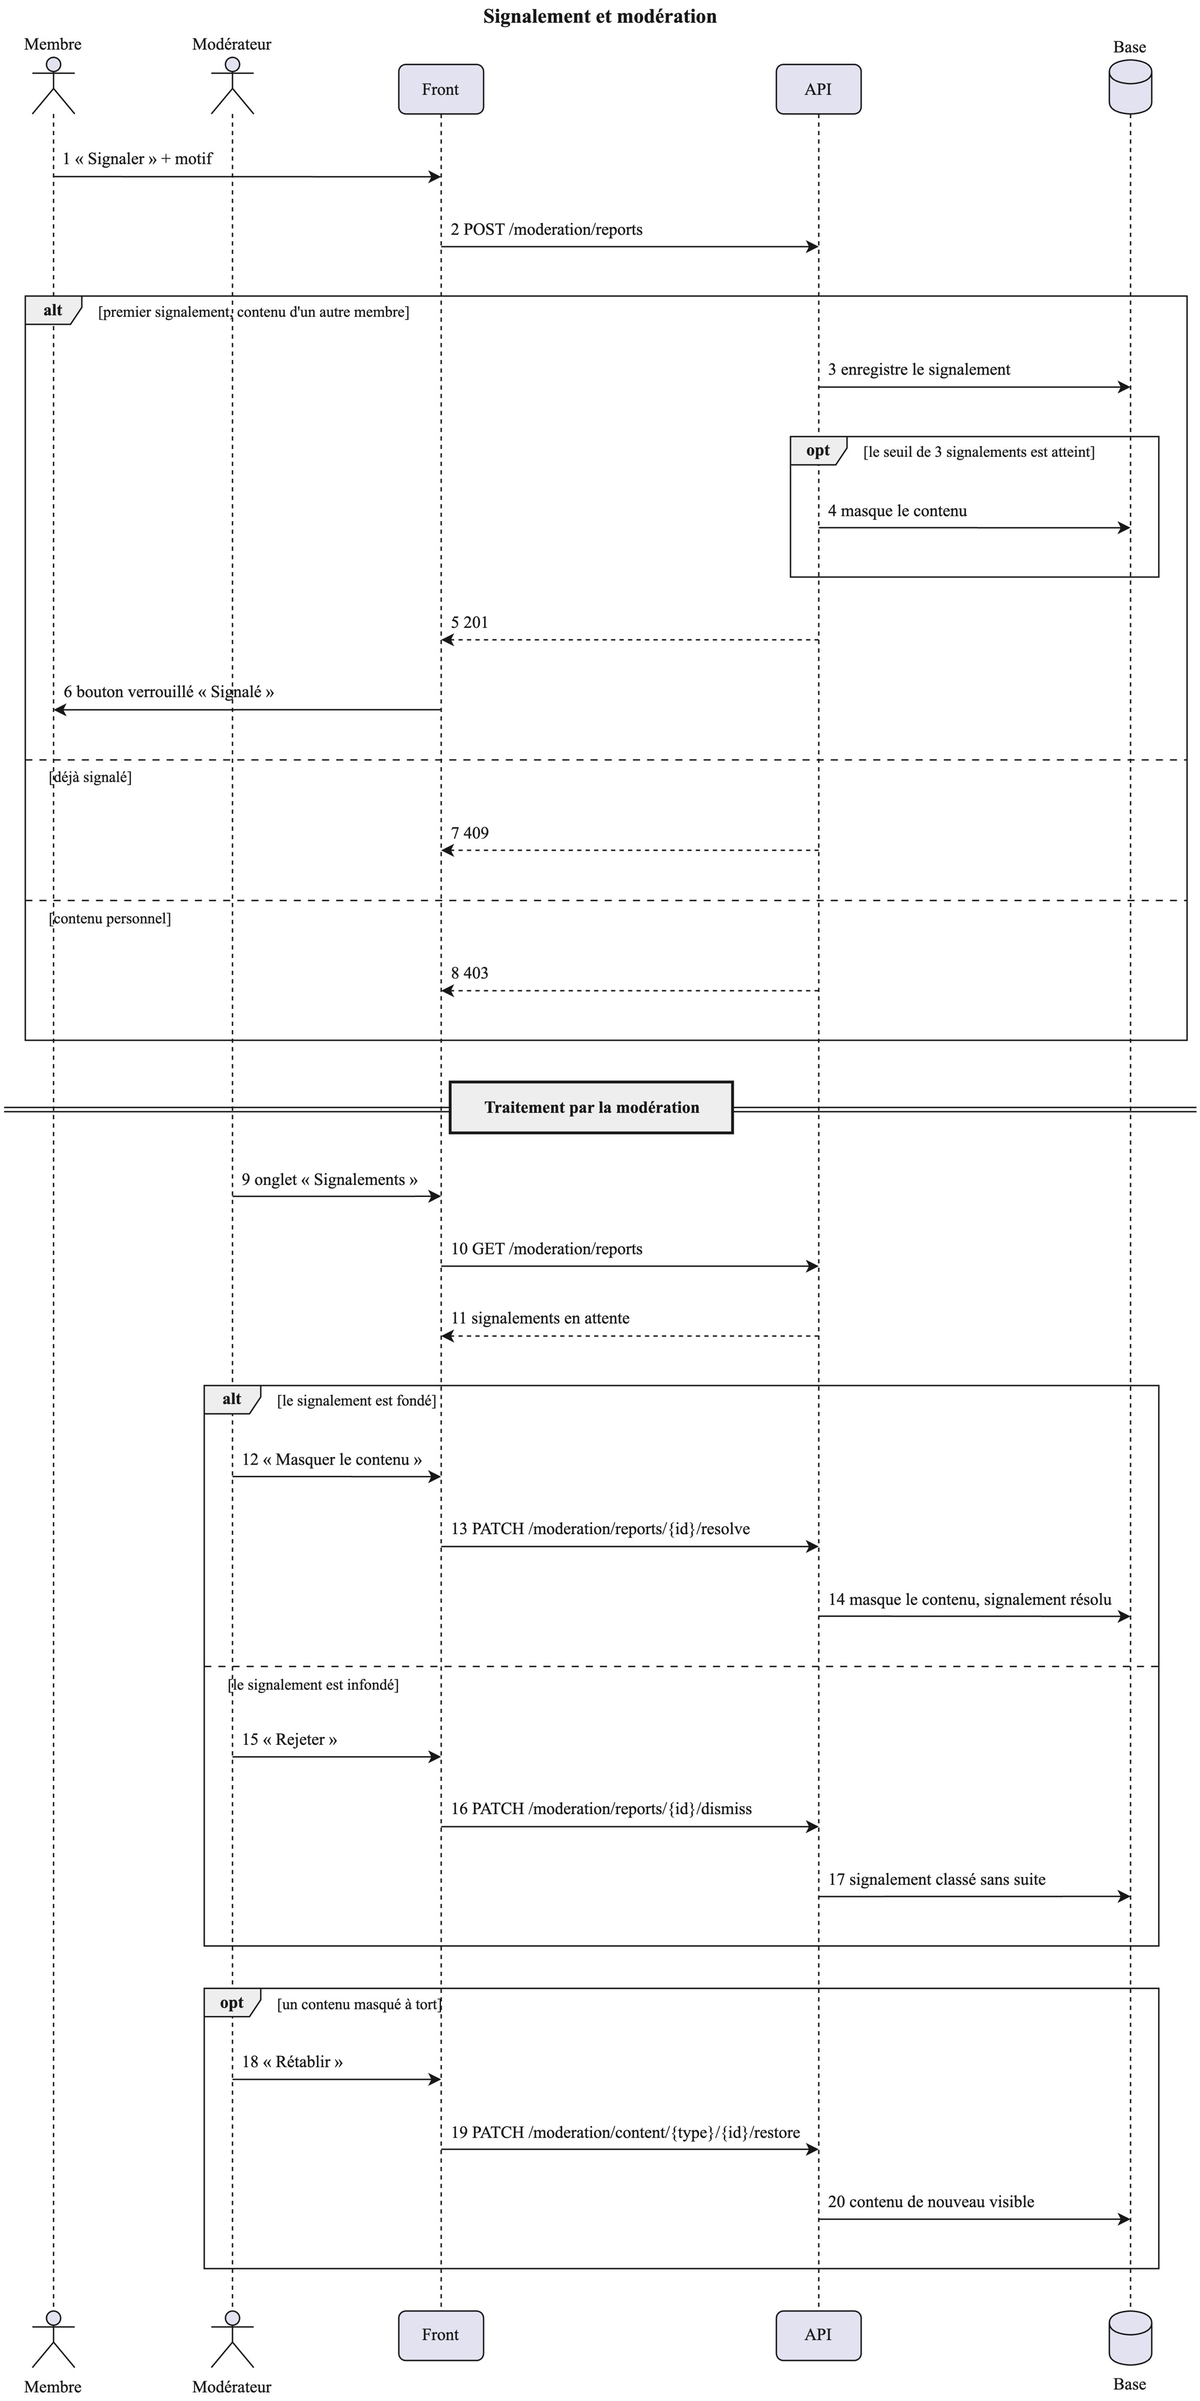
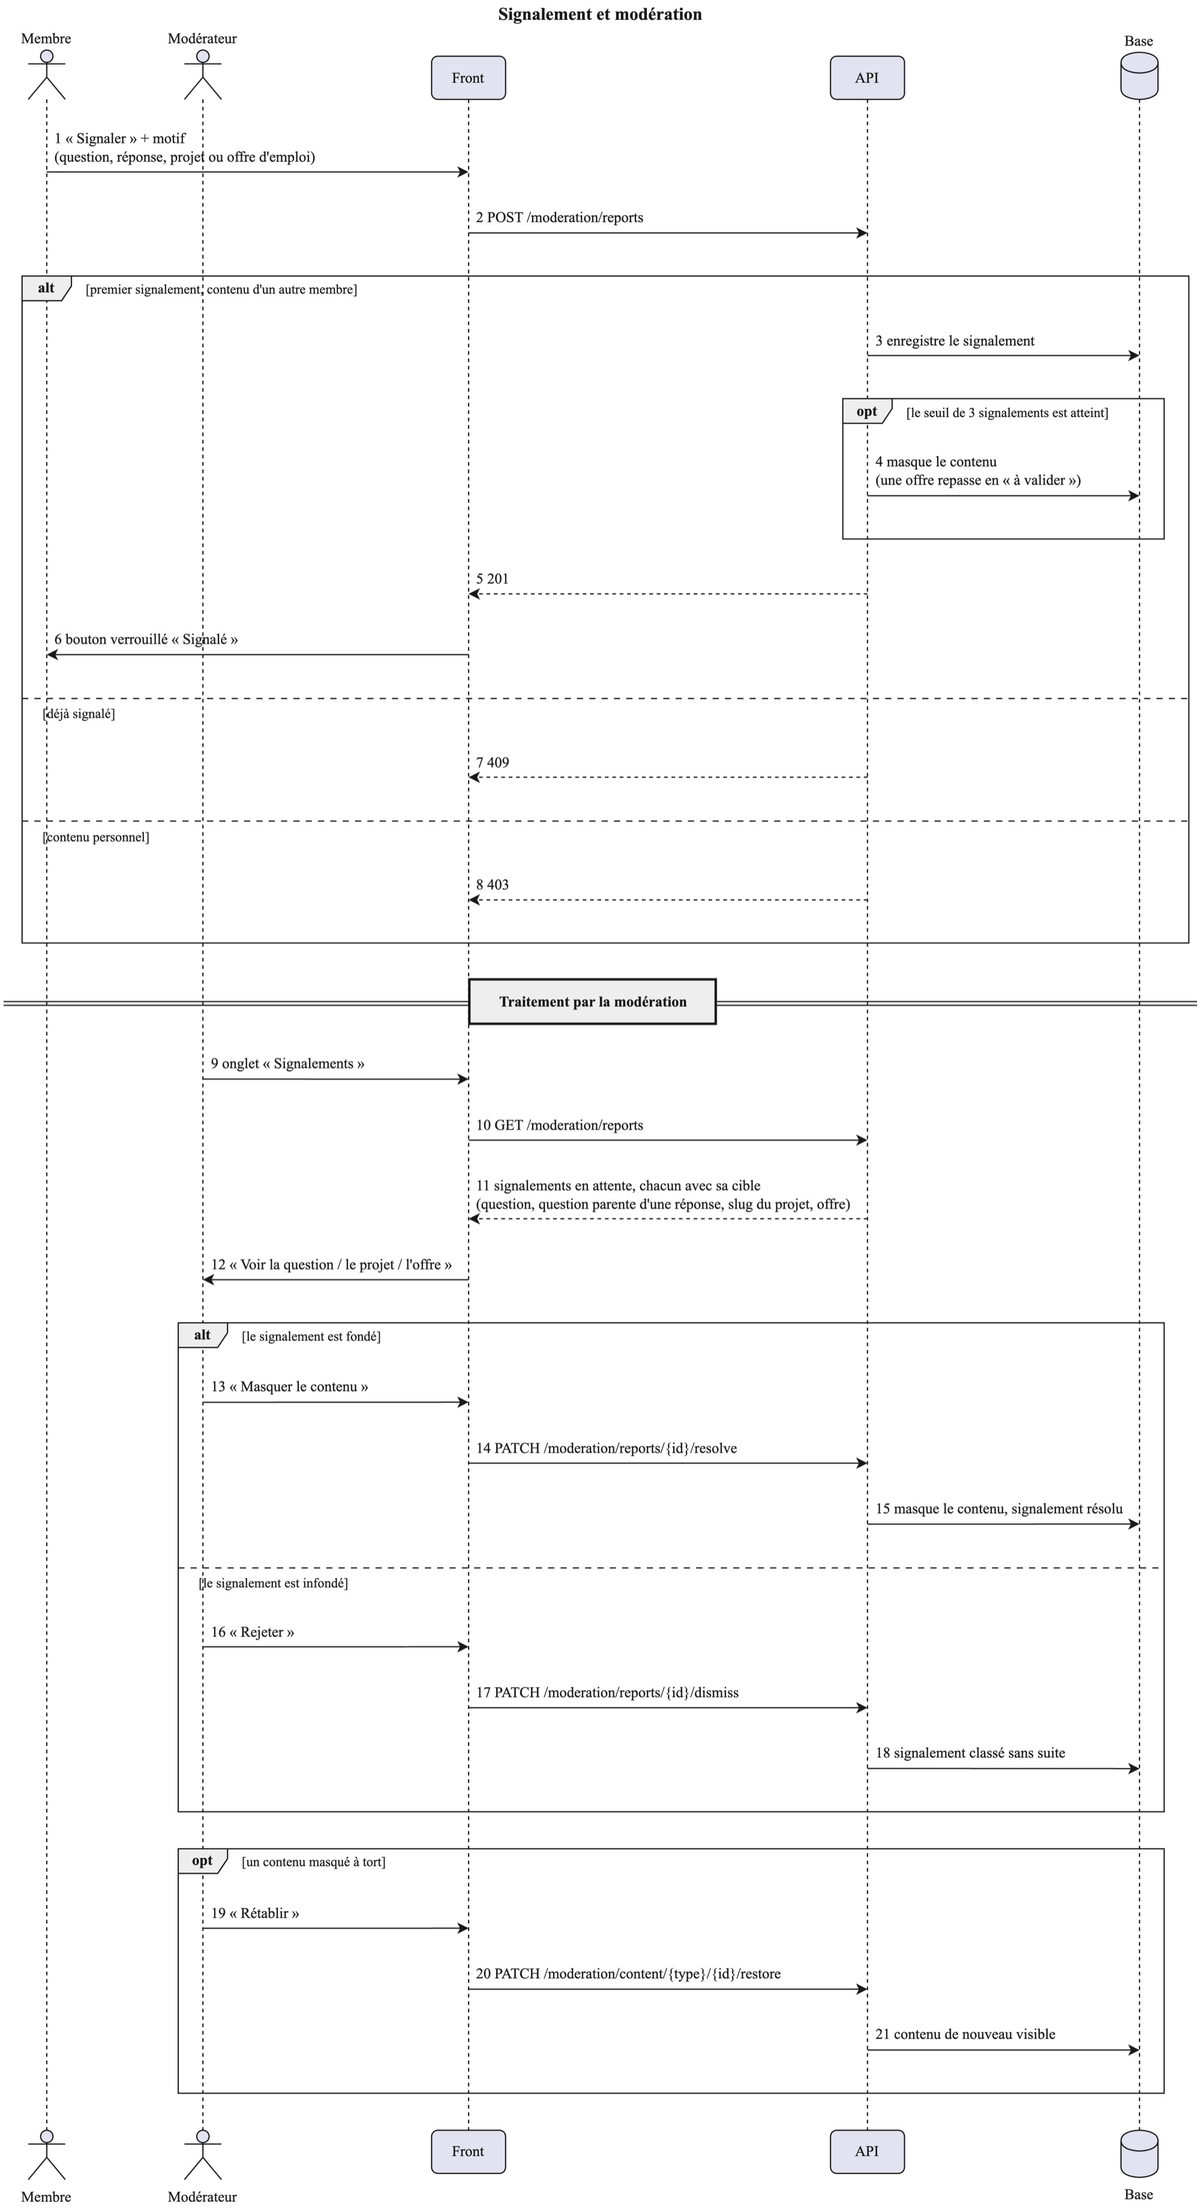
docs: tickets 2.9, 7.13 et 30 terminés, contrat de données, parcours 7 et 15

diff --git a/apps/api/_bmad-output/architecture-afridev-hub-phase1/data-contract-afridev-hub-phase1.md b/apps/api/_bmad-output/architecture-afridev-hub-phase1/data-contract-afridev-hub-phase1.md
@@ -29,7 +29,7 @@ Les enums des niveaux 2 à 4 sont **identiques** : les DTO importent les enums d
 | `UserRole` | MEMBER, MODERATOR, ADMIN | admin `UpdateRoleDto.role` | `UserRole` |
 | `VoteEntityType` | POST, ANSWER | déduit de la route `/votes/posts\|answers/:id` | `VoteEntityType` |
 | `VoteValue` | UP, DOWN | `VoteDto.value` | `VoteValue` |
-| `ReportEntityType` | POST, ANSWER, PROJECT | `CreateReportDto.entityType` | `ReportEntityType` |
+| `ReportEntityType` | POST, ANSWER, PROJECT, JOB (migration `20261029100000`) | `CreateReportDto.entityType` | `ReportEntityType` |
 | `ReportStatus` | PENDING, REVIEWED, RESOLVED, DISMISSED | — | `ReportStatus` |
 | `ModerationActionType` | HIDDEN, RESTORED, DISMISSED, WARNING, BAN | `ResolveReportDto.action` (HIDDEN, RESTORED, WARNING) | `ModerationActionType` |
 | `ExperienceLevel` | JUNIOR, MID, SENIOR | `OnboardingDto.level`, `UpdateUserDto.level` | `ExperienceLevel` |
@@ -179,6 +179,9 @@ Les relations gardent le nom Prisma (`user`, `postTags`, `projectTags`, `recruit
   - `Project.slug` unique (tiré du nom, suffixe aléatoire court en cas de collision), `githubFullName` (« owner/repo » en minuscules, un projet par dépôt), `githubForks`, `githubSyncedAt` (dernier import réussi ; null = pas encore importé).
   - `CreateProjectDto.categorySlug` devient obligatoire (FR-22) ; `UpdateProjectDto` accepte les tags, la catégorie et un nouveau dépôt (revérifié, stats remplacées).
 - (decision) **Paiements E6 (2026-10-21)** : `InitiatePaymentDto` ne contient plus que `product`, `paymentType`, `country`, `customer`. Montant, devise, `entityType` et `entityId` (= le membre qui paie) viennent de `payments/catalog.ts`. Pas de migration : le produit est rangé dans `Payment.metadata.product`. Un paiement `CAPTURED` de type `RECRUITER_PLAN` crée ou prolonge `RecruiterPlan` (PREMIUM, +30 jours) dans la même transaction.
+- (decision) **Signalement des offres et lien vers la cible (2026-10-29, story 7.13)** : `ReportEntityType` et `ModerationTargetType` gagnent `JOB`. Une offre n'a pas de champ « masqué » : à 3 signalements ouverts elle repasse en `PENDING_REVIEW` (invisible du public, décision d'un modérateur) ; rejeter le signalement ou rétablir ne remet en ligne qu'une offre `PENDING_REVIEW`, jamais une offre refusée ou close. `GET /moderation/reports` ajoute `target` à chaque signalement : `{ title, postId? , slug?, jobId? }` (`postId` est la question concernée, ou la question parente d'une réponse) ; `null` si le contenu a été supprimé. Une requête par type de cible.
+- (decision) **Pas de profil public pour un administrateur (2026-10-29)** : `GET /users/:username`, `/activity` et `/badges` répondent `404 USERS_USER_NOT_FOUND` pour un compte `ADMIN`, comme pour un compte inexistant ; le classement (`GET /gamification/leaderboard`) l'exclut. Les auteurs renvoyés par le forum, les projets et les candidatures portent `role`, pour que le front n'affiche pas de lien vers un profil qui n'existe pas.
+- (decision) **Adresse du profil public (2026-10-29, story 2.9)** : `/@pseudo`, celle que renvoie `ogMeta.ogUrl` ; l'ancienne `/u/pseudo` y redirige. La page pose `og:type = profile`, `og:title`, `og:description`, `og:url`, `og:image`.
 - (decision) **Paiements, checkout hébergé (2026-10-28)** : `paymentType` et `country` deviennent facultatifs ; sans `paymentType`, Bictorys affiche sa page de choix. `customer` est repris du compte connecté. La charge répond `{ link, chargeId }` ; `POST /payments/initiate` renvoie toujours `paymentId, amount, currency, transactionId, redirectUrl, link, qrCode, message`. Le webhook porte `amount` = prix + `customerFees` : le contrôle accepte le prix ou le prix plus les frais. Le front (`/jobs/plan`, `/payment/result`) ne crée ni ne montre aucun montant : il lit le prix sur `GET /payments/products` et le statut sur `GET /payments/{id}`.
 - (decision) **Vérification d'email par code (2026-10-21)** : le lien est remplacé par un code de 6 caractères (lettres majuscules et chiffres, sans 0/O/1/I), unique parmi les codes en cours, valable 24 h. `VerificationToken.token` contient l'empreinte SHA-256 du code, jamais le code. `POST /auth/verify-email` exige la connexion (JWT reçu à l'inscription) et prend `{ code }`, casse ignorée. 5 essais erronés invalident le code (429 `AUTH_VERIFICATION_TOO_MANY_ATTEMPTS`) ; `POST /auth/resend-verification` en envoie un nouveau. Migration `20261021150000_email_verification_code` : colonne `attempts`, anciens liens supprimés.
 - (decision) **Table des pays (2026-10-22)** : table `Country` (`code` ISO alpha-2 en clé, `alpha3`, `name` en français, `region` AFRICA ou DIASPORA), 69 pays : les 54 pays africains et 15 de la diaspora. `User.country`, `JobOffer.country` et `Project.country` sont des clés étrangères vers `Country.code` : la base refuse un code inconnu. Le front précharge `GET /api/countries` (public, mis en cache 24 h) pour ses listes déroulantes et envoie le code à 2 lettres. Source unique : `apps/api/src/common/countries.ts`, utilisée par la migration `20261022120000_country_table`, le seed et la validation des DTO (casse ignorée, `sn` → `SN`).
@@ -238,6 +241,6 @@ Les relations gardent le nom Prisma (`user`, `postTags`, `projectTags`, `recruit
 - **Accusé de réception de candidature** : `POST /jobs/:id/apply` déclenche, via l'événement `jobs.application.created`, un e-mail au candidat (offre, entreprise, date UTC, CV joint ou non, référence, lien vers l'offre). C'est un e-mail transactionnel : il part même si le membre a désactivé les e-mails d'activité (`emailNotifications`), et un échec d'envoi n'annule pas la candidature. Le recruteur reçoit toujours sa notification (in-app et e-mail).
 - **Temps réel (front)** : tant que le membre est connecté, `RealtimeService` ouvre une connexion Socket.IO vers l'espace `/notifications` de l'API (jeton d'accès dans `auth.token`, rechargé à chaque tentative ; client chargé à la demande pour ne pas alourdir la première page). Événement `notification` : toast, compteur de non lues de la barre de navigation (pastille sur l'icône du compte) et ajout en tête de la page « Notifications » sans recharger. Événement `reputation` : réputation du membre mise à jour dans l'état local, avec un toast « +N points de réputation » en cas de gain. Si le serveur coupe la connexion (jeton expiré), le front renouvelle le jeton par un appel authentifié et se reconnecte, 5 fois au plus ; à la reconnexion, le compteur est relu. Dépendance ajoutée : `socket.io-client` 4.8.
 - **Suite de bout en bout** (`apps/web-e2e`, Playwright + Chromium, `npm run e2e`) : 47 scénarios dans un vrai navigateur contre le front et l'API réelle : visiteur, authentification (dont la vérification d'e-mail), forum à deux comptes (question, réponse, vote immédiat et conservé, acceptation, signalement), offres (publication, validation par la modération, candidature enrichie, lecture par le recruteur, modification, clôture, alertes), modération et droits d'accès, notifications en temps réel, administration (tableau de bord, bannissement, audit). Les comptes `e2e_*` sont créés en base puis supprimés ; mode d'emploi et limites dans `apps/web-e2e/README.md`. Elle a révélé deux défauts de l'application, corrigés : le garde de rôle (et la page d'arrivée de `/admin`) décidaient avant le chargement du profil, ce qui renvoyait un administrateur vers `/forum` à l'ouverture directe de la page ; le formulaire de candidature ne préremplissait pas le nom quand on l'ouvrait directement. Non couverts : lecture du code d'inscription reçu par e-mail, envoi d'un CV vers R2, e-mails réellement reçus ; pas encore branchée à la CI (il lui faut une base et Redis dédiés).
-- **Signalement** : bouton « Signaler » (motif de la liste `SPAM`, `OFFENSIVE`, `OFF_TOPIC`, `DUPLICATE`, `OTHER` et précisions ≤ 500 caractères) sur les questions, les réponses et les projets, via `POST /moderation/reports`. Masqué aux visiteurs et à l'auteur du contenu ; un 409 (déjà signalé) verrouille le bouton. Les offres d'emploi ne sont pas signalables : `ReportEntityType` ne contient que POST, ANSWER et PROJECT.
+- **Signalement** : bouton « Signaler » (motif de la liste `SPAM`, `OFFENSIVE`, `OFF_TOPIC`, `DUPLICATE`, `OTHER` et précisions ≤ 500 caractères) sur les questions, les réponses et les projets, via `POST /moderation/reports`. Masqué aux visiteurs et à l'auteur du contenu ; un 409 (déjà signalé) verrouille le bouton. Les offres d'emploi sont signalables depuis le 2026-10-29 (`ReportEntityType.JOB`, bouton « Signaler » sur la page d'une offre).
 - **Administration (front)** : `/admin` regroupe, pour les modérateurs et administrateurs, les **signalements** (`GET /moderation/reports` par statut, décision masquer / avertir / laisser visible via `PATCH …/resolve`, ou ignorer) et les **offres à valider** (`GET /jobs/review`, publier, refuser avec un motif de 5 caractères au moins). Réservés aux ADMIN : les **utilisateurs** (`GET /admin/users`, changement de rôle, bannir et lever le ban via `/moderation/users/*`) et le **journal d'audit**. La page « Projets à approuver » est supprimée : l'API publie les projets d'emblée et les modère par signalement. `GET /admin/users` renvoie `isBanned` (dernière action de modération BAN ou RESTORED sur le compte, calculée en une requête pour la page) : la liste affiche « Banni » et propose « Bannir » ou « Lever le ban » selon l'état. Le **tableau de bord** `/admin/dashboard` (réservé aux ADMIN, page d'arrivée de `/admin` pour eux) affiche `GET /admin/stats` : membres, questions, projets, offres, signalements et offres à traiter (liens vers les files), revenus, et les indicateurs de succès SM-2 (≥ 100 questions avec réponse en 30 jours), SM-3 (≥ 1 paiement), SM-5 (≥ 10 offres en 60 jours), SM-6 (≥ 5 projets avec stats GitHub) et SM-7 (> 30 % de réponses acceptées en 30 jours) avec leur avancement. SM-1 et SM-4 ne sont pas mesurés par l'API.
 - **Fonctions Phase 1 sans écran** (à ouvrir en tickets front) : modification d'une réponse, paiements et plan recruteur. Mentorat et communautés sont en phase 2 ; leurs pages restent des vitrines à données statiques, signalées par un bandeau « Aperçu » (profils et événements d'exemple) avec réservation, adhésion et pagination désactivées, et une mention « Aperçu · bientôt disponible » sur la section Mentors de l'accueil (décision du 2026-10-28).

diff --git a/docs/parcours-utilisateurs/README.md b/docs/parcours-utilisateurs/README.md
@@ -358,7 +358,7 @@ end
 
 ## 7. Signaler un contenu et le modérer
 
-Un membre signale une question, une réponse, un projet ou une offre une seule fois, et jamais son propre contenu. À 3 signalements le contenu est masqué automatiquement (seuil réglable). Un contenu masqué est remplacé par un texte neutre pour les visiteurs.
+Un membre signale une question, une réponse, un projet ou une offre une seule fois, et jamais son propre contenu. À 3 signalements le contenu est masqué automatiquement (seuil réglable). Un contenu masqué est remplacé par un texte neutre pour les visiteurs. Une offre signalée trois fois repasse en validation : elle disparaît du public jusqu'à la décision d'un modérateur. Chaque signalement indique où se trouve son contenu, avec un lien pour l'ouvrir.
 
 ```plantuml
 @startuml
@@ -370,12 +370,12 @@ participant Front
 participant API
 database Base
 
-Membre -> Front : « Signaler » + motif
+Membre -> Front : « Signaler » + motif\n(question, réponse, projet ou offre d'emploi)
 Front -> API : POST /moderation/reports
 alt premier signalement, contenu d'un autre membre
   API -> Base : enregistre le signalement
   opt le seuil de 3 signalements est atteint
-    API -> Base : masque le contenu
+    API -> Base : masque le contenu\n(une offre repasse en « à valider »)
   end
   API --> Front : 201
   Front -> Membre : bouton verrouillé « Signalé »
@@ -388,7 +388,8 @@ end
 == Traitement par la modération ==
 Modérateur -> Front : onglet « Signalements »
 Front -> API : GET /moderation/reports
-API --> Front : signalements en attente
+API --> Front : signalements en attente, chacun avec sa cible\n(question, question parente d'une réponse, slug du projet, offre)
+Front -> Modérateur : « Voir la question / le projet / l'offre »
 alt le signalement est fondé
   Modérateur -> Front : « Masquer le contenu »
   Front -> API : PATCH /moderation/reports/{id}/resolve
@@ -769,11 +770,11 @@ API --> Front : profil mis à jour
 
 ## 15. Tableau de bord par rôle
 
-Après la connexion, l'arrivée se fait sur l'accueil, ou sur la page protégée qui avait été demandée. Le tableau de bord (`/tableau-de-bord`) range toutes les fonctions du compte selon son rôle : un membre voit son activité et son compte, un recruteur son espace (offres, publication, plan premium), un modérateur les signalements et les offres à valider avec leur nombre, un administrateur en plus les indicateurs, les utilisateurs et le journal d'audit. Les chiffres lus en plus (notifications, plan, éléments à modérer) n'empêchent pas l'affichage s'ils manquent.
+Après la connexion, l'arrivée se fait sur l'accueil, ou sur la page protégée qui avait été demandée. Le tableau de bord (`/tableau-de-bord`) est un espace à part, avec une barre latérale (un tiroir sur téléphone) et un bouton « Retour au site » : la barre de navigation et le pied de page du site y sont masqués. La barre range toutes les fonctions du compte selon son rôle : un membre voit son activité et son compte, un recruteur son espace (offres, publication, plan premium), un modérateur les signalements et les offres à valider avec leur nombre, un administrateur en plus les indicateurs, les utilisateurs et le journal d'audit. Les pages du compte, de la modération et de l'administration s'ouvrent dans le tableau de bord ; celles du site (forum, offres, publication, profil public) s'ouvrent sur le site. Un compte administrateur n'a pas de profil public. Les chiffres lus en plus (notifications, plan, éléments à modérer) n'empêchent pas l'affichage s'ils manquent.
 
 ```plantuml
 @startuml
-title Tableau de bord : arrivée après connexion et fonctions rangées par rôle
+title Tableau de bord : barre latérale par rôle, pages intégrées et retour au site
 autonumber
 actor Membre
 participant Front
@@ -796,7 +797,7 @@ Front -> Front : le garde de route vérifie la connexion\n(sinon : connexion, pu
 Front -> API : GET /auth/me
 API -> Base : lit le compte
 API --> Front : rôle, profil recruteur, réputation
-Front -> Membre : salutation, rôles du compte, cartes de toutes les fonctions
+Front -> Membre : barre latérale (tiroir sur téléphone), salutation, rôles du compte, cartes de toutes les fonctions\nLes barres de navigation et de pied de page du site sont masquées
 
 par chiffres lus en plus (un échec n'empêche pas l'affichage)
   Front -> API : GET /notifications/unread-count
@@ -822,12 +823,23 @@ note over Front
   Administrateur : en plus, indicateurs, utilisateurs, journal d'audit.
 end note
 
-== Ouvrir une carte ==
-Membre -> Front : clique sur une carte
+== Ouvrir une entrée de la barre latérale ==
+Membre -> Front : clique sur une entrée ou une carte
 alt page d'administration réservée aux administrateurs
   Front -> Front : le garde de rôle attend le profil, puis autorise ou renvoie
-else autre page
-  Front -> Membre : ouvre la page
+else page du compte, de modération ou d'administration
+  Front -> Membre : s'ouvre dans le tableau de bord (en-tête compact)
+else page du site (forum, offres, publication, profil public)
+  Front -> Membre : s'ouvre sur le site, avec sa barre de navigation
 end
+
+== Retour au site ==
+Membre -> Front : « Retour au site »
+Front -> Membre : accueil, avec la barre de navigation et le pied de page
+
+note over Membre, Front
+  Un compte administrateur n'a pas de profil public :
+  ni carte « Mon profil public », ni lien sur son nom.
+end note
 @enduml
 ```

diff --git a/apps/api/_bmad-output/initiative-afridev-hub-phase1/epic-auth-profiles/story-profil-public-og-meta-endpoint-angular-ssr-plan.md b/apps/api/_bmad-output/initiative-afridev-hub-phase1/epic-auth-profiles/story-profil-public-og-meta-endpoint-angular-ssr-plan.md
@@ -1,5 +1,5 @@
 ---
 title: "Profil public OG meta — endpoint + Angular SSR"
 ticket: 9
-status: in-progress
+status: done
 ---

diff --git a/apps/api/_bmad-output/initiative-afridev-hub-phase1/epic-front-phase1/story-signalements-lien-vers-la-cible-et-signalement-des-offres-plan.md b/apps/api/_bmad-output/initiative-afridev-hub-phase1/epic-front-phase1/story-signalements-lien-vers-la-cible-et-signalement-des-offres-plan.md
@@ -1,0 +1,5 @@
+---
+title: "Signalements : lien vers la cible et signalement des offres"
+ticket: 13
+status: done
+---

diff --git a/apps/api/_bmad-output/initiative-afridev-hub-phase1/epic-front-phase1/story-tableau-de-bord-en-barre-laterale-et-profil-admin-masque-plan.md b/apps/api/_bmad-output/initiative-afridev-hub-phase1/epic-front-phase1/story-tableau-de-bord-en-barre-laterale-et-profil-admin-masque-plan.md
@@ -1,0 +1,5 @@
+---
+title: "Tableau de bord en barre latérale et profil admin masqué"
+ticket: 30
+status: done
+---
